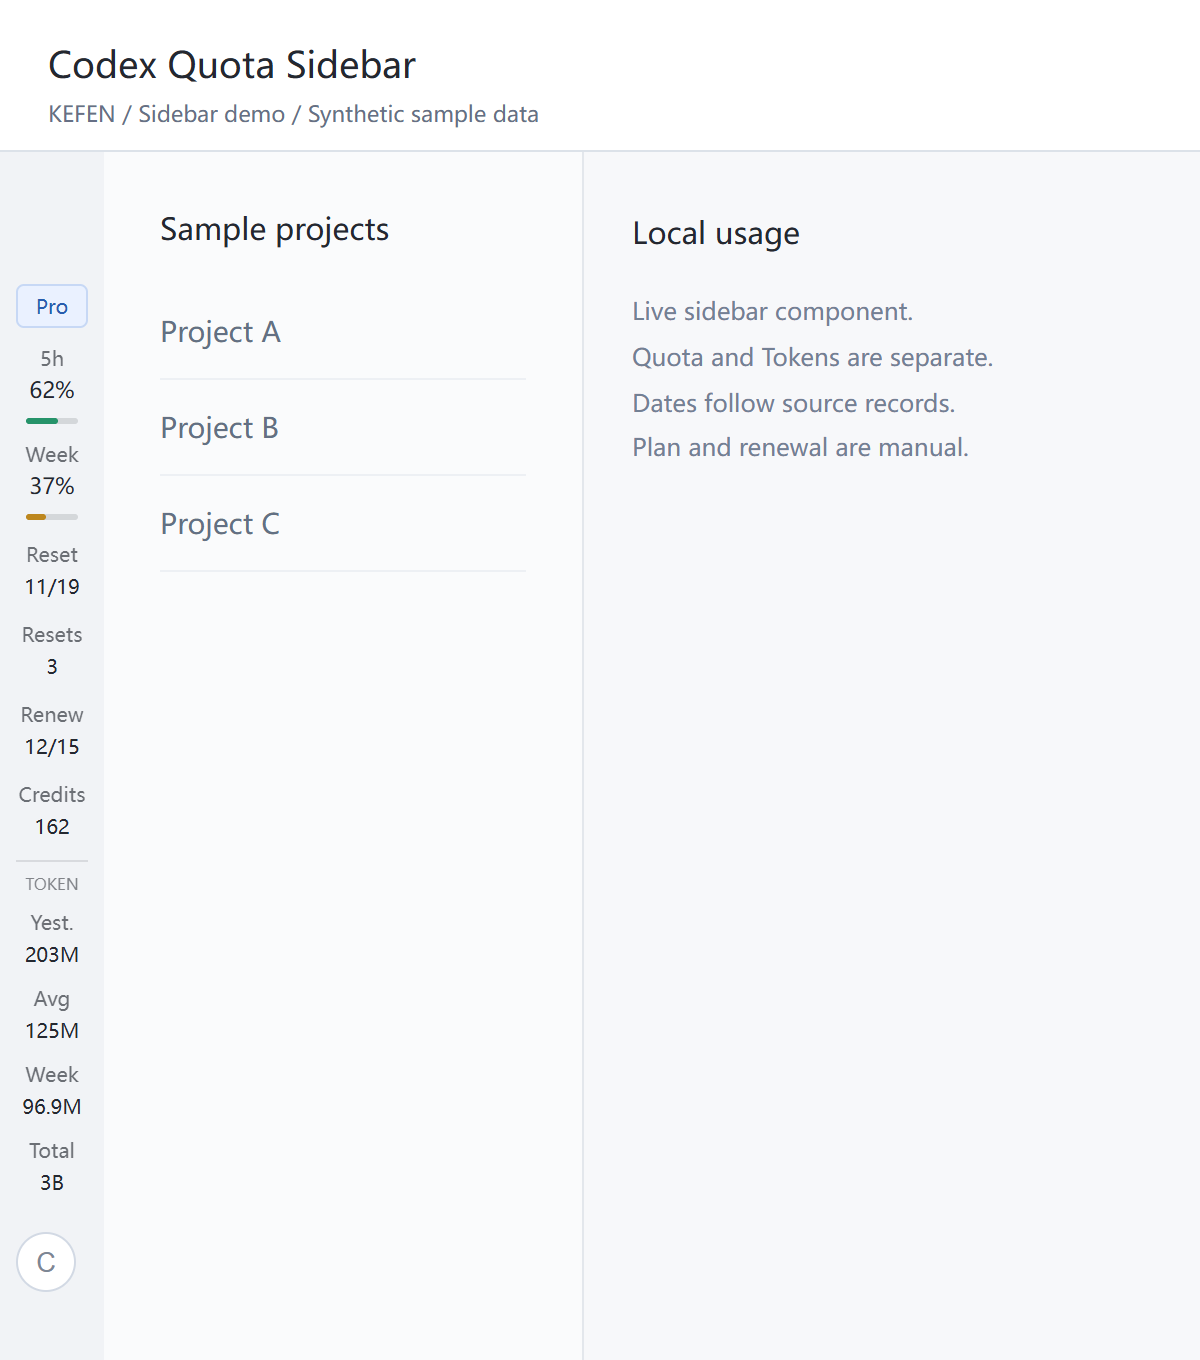
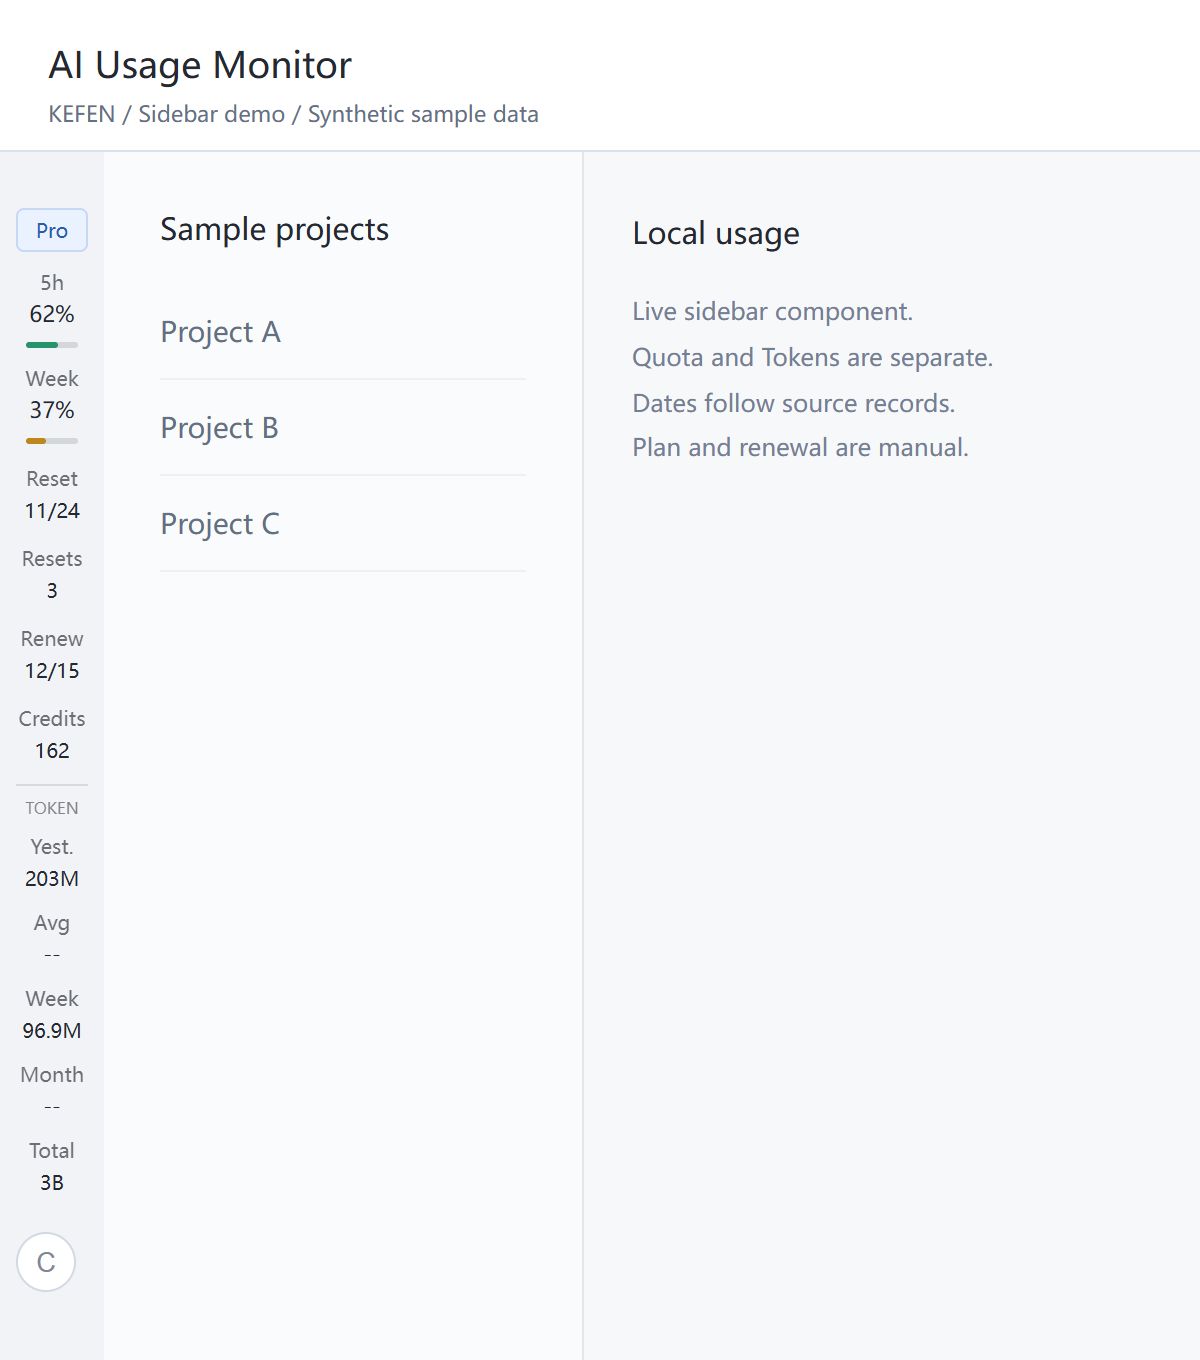
Show the Codex sidebar before the desktop dashboards

Changed region(s): [[0.0, 0.4632, 0.0617, 0.8338], [0.0, 0.1544, 0.0617, 0.4324], [0.0308, 0.0309, 0.3392, 0.0618]]

diff --git a/README.md b/README.md
@@ -23,6 +23,10 @@ This is an unofficial companion, not an OpenAI product. Token usage is not an AP
 
 English interfaces with sample data, not live account readings.
 
+**Codex sidebar.** The narrow strip on the far left shows the five-hour and weekly quota remaining, reset and renewal dates, and token usage without opening the dashboard. This preview uses the actual sidebar component in a simulated Codex workspace. [View the sidebar up close](docs/screenshots/sidebar-demo.png).
+
+![Codex workspace preview with quota bars and token counts in the left rail beside the project list](docs/screenshots/codex-sidebar-overview.png)
+
 **macOS: Usage overview.** Compare daily or cumulative tokens with your remaining five-hour and weekly allowances.
 
 ![English macOS dashboard with a daily token chart and remaining quota](docs/screenshots/macos-overview-en.png)
